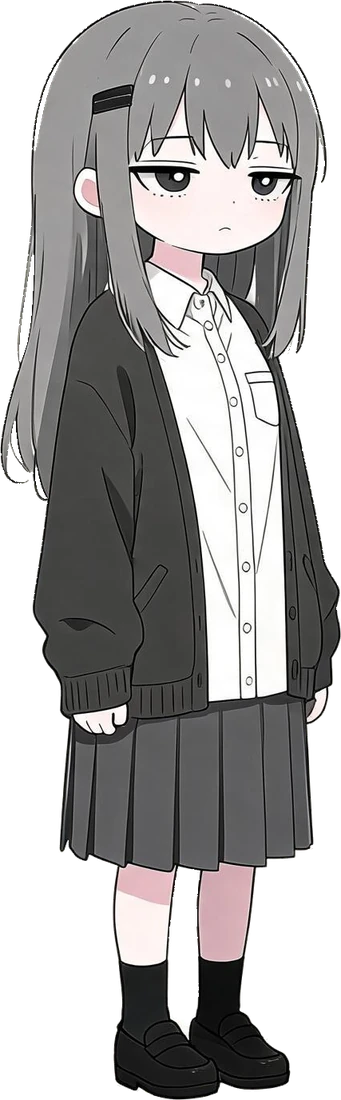
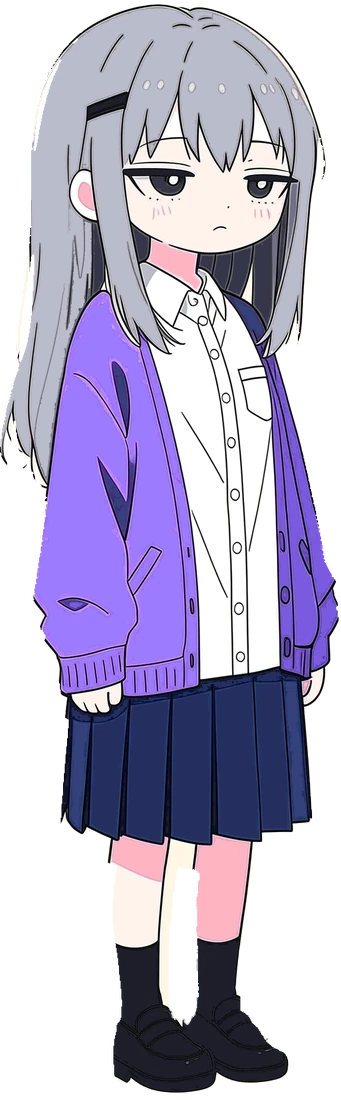
짝사랑 그림 4장(crush-34·face·front·side)을 아동 컬러판(애쉬 머리·보라 가디건·남색 치마)으로 다시 칠함

diff --git a/_tests/test_recolor_crush.py b/_tests/test_recolor_crush.py
@@ -1,0 +1,184 @@
+"""Item: recolour crush-34 / crush-face / crush-front / crush-side to the kids palette.
+
+Done when
+- all four images keep the size and mode of the bb74c20 original,
+- they are more colourful than the original (body shots: ash hair, grape
+  cardigan #9B7BFF, navy skirt #34407A per palette.json),
+- tangerine (#F57C00) pixels are <= 0.5% of opaque pixels (crush has no tangerine),
+- work PNGs / candidates live only outside the repo (TEMP), never in it.
+Run: python _tests/test_recolor_crush.py
+"""
+import colorsys
+import os
+import subprocess
+import sys
+import unittest
+
+sys.dont_write_bytecode = True
+sys.path.insert(0, os.path.dirname(os.path.abspath(__file__)))
+import imgcheck  # noqa: E402
+
+NAMES = ["crush-34", "crush-face", "crush-front", "crush-side"]
+BODY = ["crush-34", "crush-front", "crush-side"]  # face crop may not show clothes
+DEST = "assets/images/twins"
+MIN_COLOUR = 0.06       # body shots: share of saturated non-tangerine pixels
+MIN_GAIN = 0.03         # body shots: must beat the mono base by this much
+MIN_FACE_GAIN = 0.003   # face crop: must still be measurably more colourful
+MIN_SHARE = 0.01        # each garment colour must cover >= 1% of opaque pixels
+MAX_TANGERINE = 0.005
+
+
+def rel(n):
+    return f"{DEST}/{n}.webp"
+
+
+def hue_share(img, lo, hi, sat_min=0.35, val_min=0.0, val_max=1.0, max_side=256):
+    """Share of opaque pixels whose hue is in [lo, hi] (wraps if lo > hi)."""
+    img = img.convert("RGBA")
+    if max(img.size) > max_side:
+        img = img.copy()
+        img.thumbnail((max_side, max_side), imgcheck.Image.NEAREST)
+    total = hits = 0
+    for r, g, b, a in img.getdata():
+        if a < 128:
+            continue
+        total += 1
+        h, s, v = colorsys.rgb_to_hsv(r / 255, g / 255, b / 255)
+        h *= 360
+        inside = (lo <= h <= hi) if lo <= hi else (h >= lo or h <= hi)
+        if inside and s >= sat_min and val_min <= v <= val_max:
+            hits += 1
+    return hits / total if total else 0.0
+
+
+def grape_share(img):
+    # grape #9B7BFF / shadow #7A5BE0 sit at hue ~254
+    return hue_share(img, 245, 290, sat_min=0.30)
+
+
+def navy_share(img):
+    # navy #34407A / shadow #242E5E sit at hue ~229, dark
+    return hue_share(img, 215, 244, sat_min=0.30, val_max=0.65)
+
+
+def tangerine_share(img):
+    # tangerine #F57C00 / shadow #D06400 (hue ~29); skin #FFF3EC and wood
+    # #F3C994 are excluded by the saturation floor.
+    return hue_share(img, 18, 40, sat_min=0.55, val_min=0.5)
+
+
+class TestRecolorCrush(unittest.TestCase):
+    def test_files_exist(self):
+        missing = [n for n in NAMES if not os.path.isfile(imgcheck.repo_path(rel(n)))]
+        self.assertEqual(missing, [])
+
+    def test_changed_from_base(self):
+        same = [n for n in NAMES
+                if imgcheck.original_bytes(rel(n))
+                == open(imgcheck.repo_path(rel(n)), "rb").read()]
+        self.assertEqual(same, [], "still the bb74c20 (mono) file")
+
+    def test_size_and_mode_match_base(self):
+        bad = []
+        for n in NAMES:
+            ok, msg = imgcheck.same_size_mode(rel(n))
+            if not ok:
+                bad.append(msg)
+        self.assertEqual(bad, [])
+
+    def test_body_more_colourful_than_base(self):
+        bad = []
+        for n in BODY:
+            old = imgcheck.colourfulness(imgcheck.original(rel(n)))
+            new = imgcheck.colourfulness(imgcheck.current(rel(n)))
+            if new < MIN_COLOUR or new < old + MIN_GAIN:
+                bad.append(f"{n}: {old:.3f} -> {new:.3f}")
+        self.assertEqual(bad, [], f"need >= {MIN_COLOUR} and > base + {MIN_GAIN}")
+
+    def test_face_more_colourful_than_base(self):
+        n = "crush-face"
+        old = imgcheck.colourfulness(imgcheck.original(rel(n)))
+        new = imgcheck.colourfulness(imgcheck.current(rel(n)))
+        self.assertGreaterEqual(new, old + MIN_FACE_GAIN, f"{n}: {old:.3f} -> {new:.3f}")
+
+    def test_grape_cardigan_present(self):
+        low = [f"{n}: {grape_share(imgcheck.current(rel(n))):.3f}" for n in BODY
+               if grape_share(imgcheck.current(rel(n))) < MIN_SHARE]
+        self.assertEqual(low, [], "grape (purple) cardigan colour missing")
+
+    def test_navy_skirt_present(self):
+        low = [f"{n}: {navy_share(imgcheck.current(rel(n))):.3f}" for n in BODY
+               if navy_share(imgcheck.current(rel(n))) < MIN_SHARE]
+        self.assertEqual(low, [], "navy skirt colour missing")
+
+    def test_no_tangerine(self):
+        bad = [f"{n}: {tangerine_share(imgcheck.current(rel(n))):.4f}" for n in NAMES
+               if tangerine_share(imgcheck.current(rel(n))) > MAX_TANGERINE]
+        self.assertEqual(bad, [], f"tangerine above {MAX_TANGERINE} of opaque pixels")
+
+    def test_transparent_background_kept(self):
+        # Cutouts: top corners must stay transparent (no cream box left by recolour).
+        bad = []
+        for n in NAMES:
+            img = imgcheck.current(rel(n)).convert("RGBA")
+            w, h = img.size
+            for xy in [(0, 0), (w - 1, 0)]:
+                if img.getpixel(xy)[3] > 16:
+                    bad.append(f"{n} {xy}")
+        self.assertEqual(bad, [], "background not transparent at top corners")
+
+    def test_no_work_files_in_repo(self):
+        out = subprocess.run(
+            ["git", "status", "--porcelain", "--untracked-files=all", "--ignored"],
+            cwd=imgcheck.REPO, capture_output=True, text=True, check=True).stdout
+        stray = [line for line in out.splitlines()
+                 if "crush" in line.lower()
+                 and line.lower().rstrip('"').endswith((".png", ".webp", ".jpg", ".jpeg"))
+                 and not line[3:].strip().strip('"') in [rel(n) for n in NAMES]]
+        self.assertEqual(stray, [], "work PNG / candidate left inside the repo")
+
+
+class TestHelpers(unittest.TestCase):
+    def test_hue_share_bounds(self):
+        Image = imgcheck.Image
+
+        def solid(rgb, a=255):
+            return Image.new("RGBA", (4, 4), rgb + (a,))
+
+        grape, grape_sh = solid((0x9B, 0x7B, 0xFF)), solid((0x7A, 0x5B, 0xE0))
+        navy, navy_sh = solid((0x34, 0x40, 0x7A)), solid((0x24, 0x2E, 0x5E))
+        tang, tang_sh = solid((0xF5, 0x7C, 0x00)), solid((0xD0, 0x64, 0x00))
+        skin, wood = solid((0xFF, 0xF3, 0xEC)), solid((0xF3, 0xC9, 0x94))
+        sky, grey = solid((0x3F, 0xA9, 0xF5)), solid((90, 90, 90))
+        self.assertEqual(grape_share(grape), 1.0)
+        self.assertEqual(grape_share(grape_sh), 1.0)
+        self.assertEqual(grape_share(navy), 0.0)
+        self.assertEqual(navy_share(navy), 1.0)
+        self.assertEqual(navy_share(navy_sh), 1.0)
+        self.assertEqual(navy_share(grape), 0.0)
+        self.assertEqual(navy_share(sky), 0.0)  # too bright for navy
+        self.assertEqual(navy_share(grey), 0.0)
+        self.assertEqual(tangerine_share(tang), 1.0)
+        self.assertEqual(tangerine_share(tang_sh), 1.0)
+        self.assertEqual(tangerine_share(skin), 0.0)
+        self.assertEqual(tangerine_share(wood), 0.0)
+        self.assertEqual(tangerine_share(solid((0xF5, 0x7C, 0x00), a=0)), 0.0)
+
+    def test_tangerine_threshold_edge(self):
+        # 1 tangerine pixel in 256 opaque (0.39%) passes; 2 in 256 (0.78%) fails.
+        Image = imgcheck.Image
+        img = Image.new("RGBA", (16, 16), (0x34, 0x40, 0x7A, 255))
+        img.putpixel((0, 0), (0xF5, 0x7C, 0x00, 255))
+        self.assertLessEqual(tangerine_share(img), MAX_TANGERINE)
+        img.putpixel((1, 0), (0xF5, 0x7C, 0x00, 255))
+        self.assertGreater(tangerine_share(img), MAX_TANGERINE)
+
+    def test_base_is_not_grape_navy(self):
+        # The mono originals must fail the garment checks, else they prove nothing.
+        for n in BODY:
+            old = imgcheck.original(rel(n))
+            self.assertLess(min(grape_share(old), navy_share(old)), MIN_SHARE, n)
+
+
+if __name__ == "__main__":
+    unittest.main(verbosity=1)
